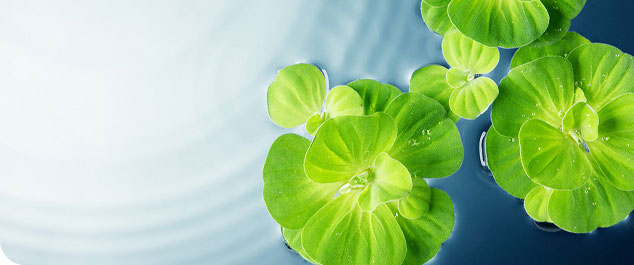
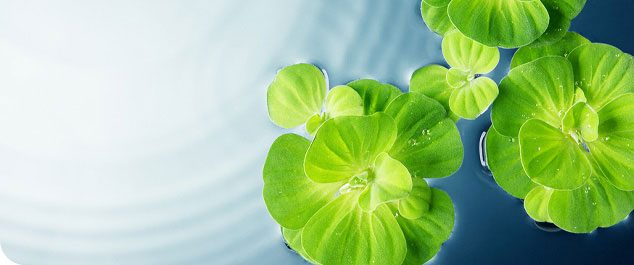
compression and cache

diff --git a/src/layout/layout.tsx b/src/layout/layout.tsx
@@ -13,7 +13,7 @@ export const Layout = component$<Props>((props) => {
   return (
     <div
       class="bg-local w-full"
-      style="background: url('/background/bg-top.jpg') repeat-x scroll center top;"
+      style="background: url('/background/bg-top.jpg.webp') repeat-x scroll center top;"
     >
       <Header />
       <div class="max-w-4xl mx-auto bg-white rounded-3xl pl-1.5">
@@ -31,22 +31,31 @@ export const Layout = component$<Props>((props) => {
           <aside class="mt-1.5 space-y-1.5 mb-10">
             <ServicesCard />
 
-            <Image
-              src="/logos/task-diversey.jpg"
-              width="264"
-              height="264"
-              alt="Taski diversey"
-              fetchPriority="high"
-            />
+            <picture>
+              <source
+                type="image/webp"
+                srcSet="/logos/task-diversey.jpg.webp"
+              />
+              <Image
+                src="/logos/task-diversey.jpg"
+                width="264"
+                height="264"
+                alt="Taski diversey"
+                fetchPriority="high"
+              />
+            </picture>
 
-            <Image
-              src="/logos/kiehel.jpg"
-              width="298"
-              height="126"
-              alt="kiehel"
-              fetchPriority="high"
-              layout="unstyled"
-            />
+            <picture>
+              <source type="image/webp" srcSet="/logos/kiehel.jpg.webp" />
+              <Image
+                src="/logos/kiehel.jpg"
+                width="298"
+                height="126"
+                alt="kiehel"
+                fetchPriority="high"
+                layout="unstyled"
+              />
+            </picture>
           </aside>
           <main
             class={[

diff --git a/src/routes/service-worker.ts b/src/routes/service-worker.ts
@@ -10,11 +10,11 @@
 import { setupServiceWorker } from '@builder.io/qwik-city/service-worker';
 import {
   imageCache,
-  staticResourceCache,
+  // staticResourceCache,
   pageCache,
   offlineFallback,
 } from 'workbox-recipes';
-import { CacheableResponsePlugin } from 'workbox-cacheable-response/CacheableResponsePlugin.js';
+// import { CacheableResponsePlugin } from 'workbox-cacheable-response/CacheableResponsePlugin.js';
 import type { RouteMatchCallbackOptions } from 'workbox-core';
 
 const matchImageCallback = ({ request }: RouteMatchCallbackOptions) => {
@@ -38,18 +38,18 @@ imageCache({
   maxEntries: 5,
 });
 
-const matchStaticCallback = ({ request }: RouteMatchCallbackOptions) => {
-  return request.destination === 'style' || request.destination === 'worker';
-};
-staticResourceCache({
-  matchCallback: matchStaticCallback,
-  warmCache: ['/'],
-  plugins: [
-    new CacheableResponsePlugin({
-      statuses: [0, 200],
-    }),
-  ],
-});
+// const matchStaticCallback = ({ request }: RouteMatchCallbackOptions) => {
+//   return request.destination === 'style' || request.destination === 'worker';
+// };
+// staticResourceCache({
+//   matchCallback: matchStaticCallback,
+//   warmCache: ['/'],
+//   plugins: [
+//     new CacheableResponsePlugin({
+//       statuses: [0, 200],
+//     }),
+//   ],
+// });
 
 pageCache({
   warmCache: ['/'],

diff --git a/src/layout/hero.tsx b/src/layout/hero.tsx
@@ -4,14 +4,17 @@ import { Image } from '~/ui/image';
 export default component$(() => {
   return (
     <section role="presentation" class="relative">
-      <Image
-        src="/background/bg-cont.jpg"
-        width="634"
-        height="265"
-        alt="Servokom ozadje"
-        fetchPriority="high"
-        layout="responsive"
-      />
+      <picture>
+        <source type="image/webp" srcSet="/background/bg-cont.jpg.webp" />
+        <Image
+          src="/background/bg-cont.jpg"
+          width="634"
+          height="265"
+          alt="Servokom ozadje"
+          fetchPriority="high"
+          layout="responsive"
+        />
+      </picture>
       <div
         class="`
         absolute inset-0

diff --git a/src/layout/logo.tsx b/src/layout/logo.tsx
@@ -3,13 +3,16 @@ import { Image } from '~/ui/image';
 
 export const Logo = component$(() => {
   return (
-    <Image
-      src="/logos/servokom.png"
-      width="277"
-      height="92"
-      alt="Servokom"
-      fetchPriority="high"
-      layout="unstyled"
-    />
+    <picture>
+      <source type="image/webp" srcSet="/logos/servokom.png.webp" />
+      <Image
+        src="/logos/servokom.png"
+        width="277"
+        height="92"
+        alt="Servokom"
+        fetchPriority="high"
+        layout="unstyled"
+      />
+    </picture>
   );
 });

diff --git a/src/layout/ServicesCard.tsx b/src/layout/ServicesCard.tsx
@@ -5,7 +5,7 @@ export const ServicesCard = component$(() => {
   useStylesScoped$(`
   .img {
     height: 270px;
-    background-image:    url(/background/sidebg.png);
+    background-image:    url(/background/sidebg.png.webp);
     background-size:     cover;                    
     background-repeat:   no-repeat;
     background-position: center center;  

diff --git a/README.md b/README.md
@@ -36,6 +36,10 @@ yarn build # or `yarn build`
 
 ## Static Site Generator (Node.js)
 
-```
+```shell
 yarn build.server
 ```
+
+## Optimize images
+
+- [img-optimize](https://virtubox.github.io/img-optimize)
